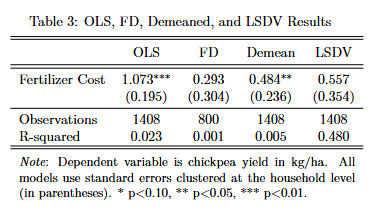
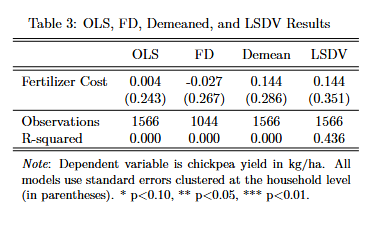
redo solutions

diff --git a/solutions/11-challenge-regs.tex b/solutions/11-challenge-regs.tex
@@ -5,11 +5,11 @@
 \multicolumn{1}{c}{OWFE} & 
 \multicolumn{1}{c}{TWFE} \\ \midrule
 \midrule
-Improved chickpea   &    1334.833\sym{***}&    1347.402\sym{***}&    1231.631\sym{***}&    1171.936\sym{***}\\
-                    &    (63.347)         &    (69.734)         &    (82.131)         &   (100.947)         \\
+Improved chickpea   &    1423.566\sym{***}&    1387.167\sym{***}&    1292.718\sym{***}&    1090.024\sym{***}\\
+                    &    (66.847)         &    (71.042)         &    (89.217)         &   (104.060)         \\
 \midrule
-Observations        &        1800         &        1800         &        1800         &        1800         \\
-R-squared           &       0.233         &       0.234         &       0.182         &       0.183         \\
+Observations        &        1566         &        1566         &        1566         &        1566         \\
+R-squared           &       0.284         &       0.286         &       0.223         &       0.232         \\
 \hline \hline \\[-1.8ex] 
 \multicolumn{5}{p{\linewidth}}{\small 
 \noindent \textit{Note}: Dependent variable 

diff --git a/solutions/11-FE.md b/solutions/11-FE.md
@@ -11,6 +11,6 @@ language: Stata
 4. Using `xtreg` [1]({{ site.baseurl }}/solutions/11-fe-1.png), [2]({{ site.baseurl }}/solutions/11-fe-2.txt)
 5. Adding Time Fixed Effects [1]({{ site.baseurl }}/solutions/11-twfe-1.png), [2]({{ site.baseurl }}/solutions/11-twfe-2.txt)
 6. Staggered Adoption Cohorts [1]({{ site.baseurl }}/solutions/11-stagger-1.png), [2]({{ site.baseurl }}/solutions/11-stagger-2.txt)
-7. Modern Estimators [1]({{ site.baseurl }}/solutions/11-modern-1.png), [2]({{ site.baseurl }}/solutions/11-modern-2.txt)
+7. Modern Estimators [1]({{ site.baseurl }}/solutions/11-bacon-1.png), [2]({{ site.baseurl }}/solutions/11-bacon-2.png), [3]({{ site.baseurl }}/solutions/11-bacon-3.txt)
 8. [Check That Your Code Runs]({{ site.baseurl }}/solutions/check-that-your-code-runs.gif)
 9. Challenge 11 [1]({{ site.baseurl }}/solutions/11-challenge-1.png), [2]({{ site.baseurl }}/solutions/11-challenge-2.png)
